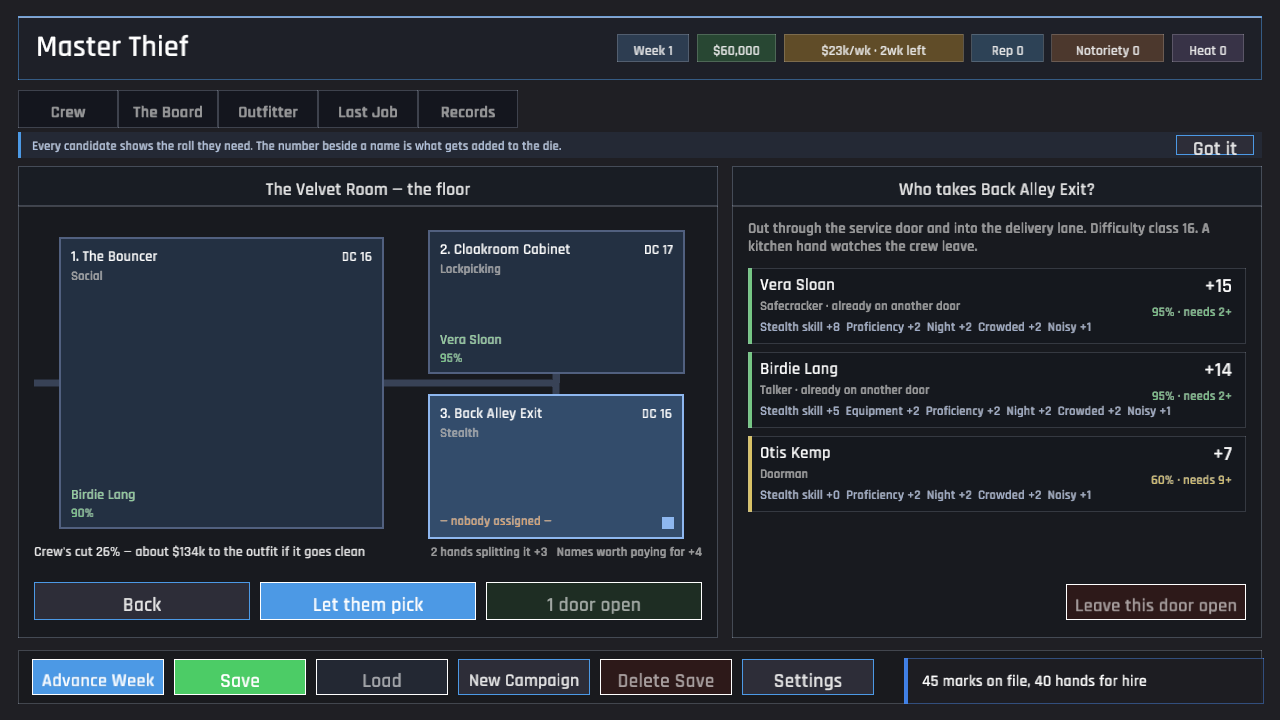
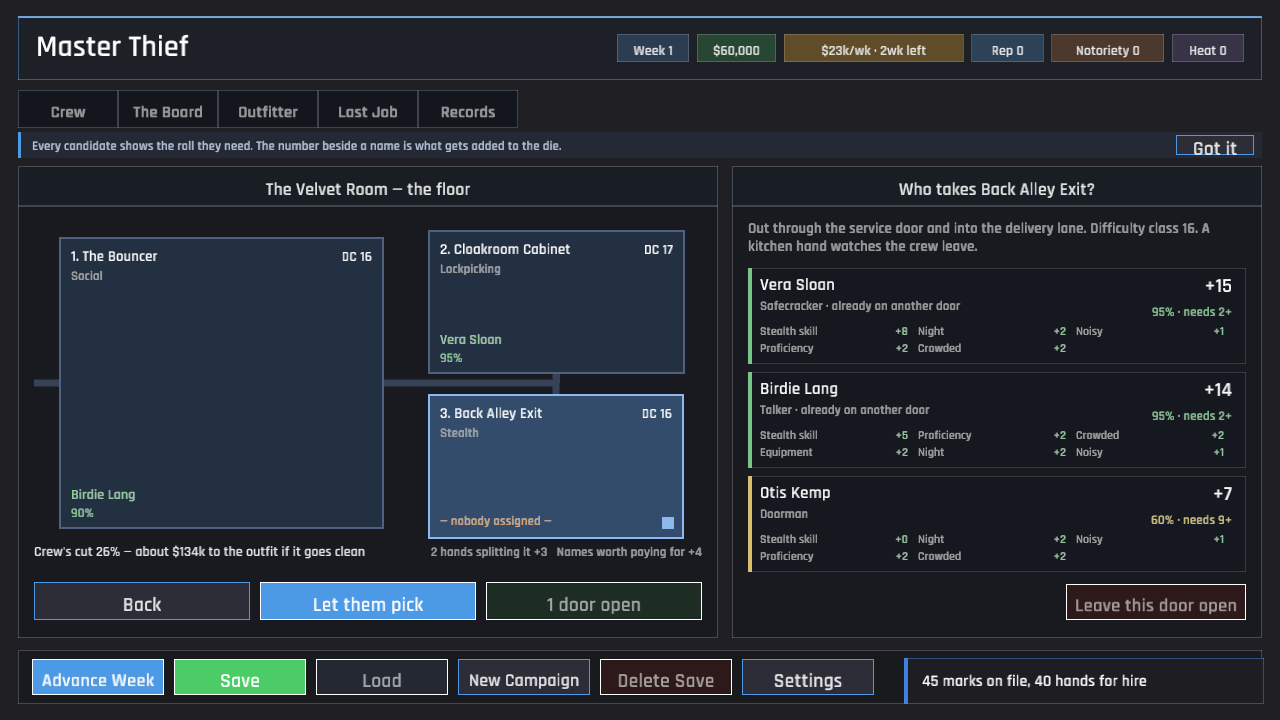
The breakdown outgrew the space I kept adding modifiers to (pillar 2: every modifier, still)
Pillar 2 promises the player sees "every modifier by name — before committing
and again in the results". That was easy to keep when a door carried four of
them. Over the last dozen iterations I added city heat, a ripened mark, worn
kit, a tail and crew chemistry to a check that already had skill, focus,
equipment, proficiency, fatigue, loyalty, injuries and the environment.

I measured it rather than guessed: across twelve campaigns a door carries eight
to eleven significant modifiers routinely and fourteen at worst. Two of the
three screens that display them joined every one into a single line — around two
hundred and thirty characters at the top end — and drew it right-aligned into a
panel a third that wide, so it ran back across the roll and the narrative. The
run screen was worse and quieter: its tally drew modifiers down one column and
`break`ed when it ran out of room, at about the fifth, while `running_total`
went on adding all fourteen. The arithmetic on screen visibly did not reach the
total printed underneath it, on the screen GDD 9 calls the load-bearing one.

Every screen now uses one shared grid that lays modifiers into as many columns
as the space takes, and — where even that will not fit — spends its last cell
saying how many are missing. Dropping them silently is exactly what went wrong;
a breakdown that admits it is incomplete is honest, one that pretends is not.

The run reads correctly again: nine on the die, ten and four and two beside it,
[…]

diff --git a/src/ui/chrome.rs b/src/ui/chrome.rs
@@ -190,6 +190,91 @@ pub fn draw_footer(ctx: &UiContext<'_>, actions: &mut Vec<UiAction>) {
     let _ = x;
 }
 
+/// The narrowest a modifier column can usefully be before the label and its
+/// value collide.
+const MIN_MODIFIER_COLUMN: f32 = 118.0;
+
+/// Every modifier on a check, named, laid out in as many columns as the space
+/// allows and never silently dropped.
+///
+/// Pillar 2 says the player sees "every modifier by name". That was easy when a
+/// door carried four of them and they fitted on one line. A door now routinely
+/// carries eight to fourteen — skill, focus, kit, proficiency, fatigue,
+/// loyalty, injuries, environment, city heat, a ripened mark, worn kit, a tail,
+/// chemistry — and the single joined line every screen used overflowed its
+/// panel, while the run's tally quietly stopped after the fifth and left the
+/// running total disagreeing with the arithmetic on screen.
+///
+/// `limit` caps how many are revealed, for the run's one-at-a-time tally; pass
+/// `usize::MAX` to show them all. Returns how many were drawn, so a caller can
+/// tell whether the space was really enough.
+pub fn draw_modifier_grid<'a>(
+    rect: Rect,
+    entries: impl Iterator<Item = &'a crate::rules::outcome::ModifierEntry>,
+    limit: usize,
+    size: f32,
+) -> usize {
+    let line_height = size + 5.0;
+    let rows = ((rect.h / line_height).floor() as usize).max(1);
+    let shown: Vec<&crate::rules::outcome::ModifierEntry> = entries.take(limit).collect();
+    if shown.is_empty() {
+        return 0;
+    }
+
+    // Grow columns rather than clip: a modifier the player cannot see is a
+    // modifier the game is hiding from them. Where even that will not fit,
+    // the last cell says how many are missing — silently dropping them is what
+    // broke this in the first place.
+    let max_columns = ((rect.w / MIN_MODIFIER_COLUMN).floor() as usize).max(1);
+    let columns = shown.len().div_ceil(rows).clamp(1, max_columns);
+    let capacity = rows * columns;
+    let overflowed = shown.len() > capacity;
+    let visible = if overflowed {
+        capacity - 1
+    } else {
+        shown.len()
+    };
+    let column_w = rect.w / columns as f32;
+
+    if overflowed {
+        let index = capacity - 1;
+        draw_ui_text_ex(
+            &format!("+{} more", shown.len() - visible),
+            rect.x + (index / rows) as f32 * column_w,
+            rect.y + (index % rows + 1) as f32 * line_height,
+            TextStyle::new(size, dark::TEXT_DIM).params(),
+        );
+    }
+
+    for (index, entry) in shown.iter().take(visible).enumerate() {
+        let column = index / rows;
+        let row = index % rows;
+        let x = rect.x + column as f32 * column_w;
+        let y = rect.y + (row + 1) as f32 * line_height;
+
+        draw_ui_text_ex(
+            &entry.label,
+            x,
+            y,
+            TextStyle::new(size, dark::TEXT_DIM).params(),
+        );
+        draw_text_right(
+            &entry.signed(),
+            x + column_w - 10.0,
+            y,
+            TextStyle::new(
+                size,
+                if entry.value >= 0 {
+                    Color::new(0.56, 0.80, 0.60, 1.0)
+                } else {
+                    Color::new(0.88, 0.52, 0.44, 1.0)
+                },
+            ),
+        );
+    }
+    visible
+}
+
 /// A left-aligned label with a right-aligned value on one line.
 pub fn stat_row(rect: Rect, label: &str, value: &str, size: f32, color: Color) {
     draw_ui_text_ex(

diff --git a/src/ui/results.rs b/src/ui/results.rs
@@ -3,7 +3,6 @@
 use super::chrome::{draw_panel, empty_notice, panel_style, stat_row, title_style};
 use super::run::outcome_color;
 use super::{content_rect, UiContext};
-use crate::rules::encounter::EncounterResult;
 use crate::sim::{DoorOutcome, JobReport};
 use macroquad::prelude::*;
 use macroquad_toolkit::prelude::*;
@@ -53,7 +52,7 @@ fn draw_doors(ctx: &UiContext<'_>, report: &JobReport) {
         doors_rect(),
         &format!("{} — door by door", report.target_name),
     );
-    let layout = GridLayout::new(content.x, content.y, content.w, 8.0, 1, 92.0);
+    let layout = GridLayout::new(content.x, content.y, content.w, 8.0, 1, 124.0);
 
     for (index, door) in report.doors.iter().enumerate() {
         let (x, y, w, h) = layout.get_item_rect(index, 0.0);
@@ -117,11 +116,13 @@ fn draw_door(rect: Rect, door: &DoorOutcome, ordinal: usize) {
         rect.y + 22.0,
         TextStyle::new(15.0, tone),
     );
-    draw_text_right(
-        &modifier_summary(&door.result),
-        rect.right() - 12.0,
-        rect.y + 43.0,
-        TextStyle::new(13.0, dark::TEXT_DIM),
+    // Every modifier, in columns, rather than one joined line that ran off the
+    // side of the panel once doors started carrying a dozen of them.
+    super::chrome::draw_modifier_grid(
+        Rect::new(rect.x + 12.0, rect.y + 84.0, rect.w - 24.0, 36.0),
+        door.result.check.significant(),
+        usize::MAX,
+        12.0,
     );
 
     if let Some(injury) = &door.injury {
@@ -149,15 +150,6 @@ fn draw_door(rect: Rect, door: &DoorOutcome, ordinal: usize) {
             TextStyle::new(13.0, tone).params(),
         );
     }
-}
-
-fn modifier_summary(result: &EncounterResult) -> String {
-    result
-        .check
-        .significant()
-        .map(|entry| format!("{} {}", entry.label, entry.signed()))
-        .collect::<Vec<_>>()
-        .join("  ")
 }
 
 fn draw_ledger(ctx: &UiContext<'_>, report: &JobReport) {

diff --git a/src/ui/run.rs b/src/ui/run.rs
@@ -151,39 +151,19 @@ fn draw_dice(ctx: &UiContext<'_>, playback: &RunPlayback, actions: &mut Vec<UiAc
         door.result.roll,
     );
 
-    // The modifiers stack up beside the die, one line at a time.
-    let revealed = playback.revealed_modifiers();
-    let lines = Rect::new(
-        content.x + 124.0,
-        content.y + 34.0,
-        content.w - 124.0,
-        108.0,
+    // The modifiers stack up beside the die, one at a time, in as many
+    // columns as it takes to show all of them (pillar 2).
+    super::chrome::draw_modifier_grid(
+        Rect::new(
+            content.x + 124.0,
+            content.y + 28.0,
+            content.w - 124.0,
+            114.0,
+        ),
+        check.significant(),
+        playback.revealed_modifiers(),
+        13.0,
     );
-    for (index, entry) in check.significant().take(revealed).enumerate() {
-        let y = lines.y + 18.0 + index as f32 * 19.0;
-        if y > lines.bottom() {
-            break;
-        }
-        draw_ui_text_ex(
-            &entry.label,
-            lines.x,
-            y,
-            TextStyle::new(14.0, dark::TEXT_DIM).params(),
-        );
-        draw_text_right(
-            &entry.signed(),
-            lines.right(),
-            y,
-            TextStyle::new(
-                14.0,
-                if entry.value >= 0 {
-                    Color::new(0.56, 0.80, 0.60, 1.0)
-                } else {
-                    Color::new(0.88, 0.52, 0.44, 1.0)
-                },
-            ),
-        );
-    }
 
     draw_total(
         Rect::new(content.x, content.y + 152.0, content.w, 54.0),

diff --git a/src/ui/planning.rs b/src/ui/planning.rs
@@ -343,7 +343,7 @@ fn draw_candidates(
         content.w,
         content.bottom() - content.y - 90.0,
     );
-    let layout = GridLayout::new(list.x, list.y, list.w, 8.0, 1, 76.0);
+    let layout = GridLayout::new(list.x, list.y, list.w, 8.0, 1, 96.0);
     let mouse = ctx.mouse();
 
     for (index, candidate) in ranked.iter().enumerate() {
@@ -439,12 +439,13 @@ fn draw_candidate(
         TextStyle::new(13.0, dark::TEXT_DIM).params(),
     );
 
-    // The whole point of the screen: every modifier, by name, before commit.
-    draw_ui_text_ex(
-        &modifier_line(candidate),
-        rect.x + 12.0,
-        rect.y + 63.0,
-        TextStyle::new(13.0, Color::new(0.62, 0.68, 0.80, 1.0)).params(),
+    // The whole point of the screen: every modifier, by name, before commit —
+    // in columns, because a door now carries up to fourteen of them.
+    super::chrome::draw_modifier_grid(
+        Rect::new(rect.x + 12.0, rect.y + 50.0, rect.w - 24.0, 44.0),
+        candidate.check.significant(),
+        usize::MAX,
+        12.0,
     );
 
     draw_text_right(
@@ -467,15 +468,6 @@ fn draw_candidate(
     }
 
     hovered && is_mouse_button_released(MouseButton::Left)
-}
-
-fn modifier_line(candidate: &Candidate) -> String {
-    candidate
-        .check
-        .significant()
-        .map(|entry| format!("{} {}", entry.label, entry.signed()))
-        .collect::<Vec<_>>()
-        .join("  ")
 }
 
 fn chance_color(chance: f32) -> Color {
